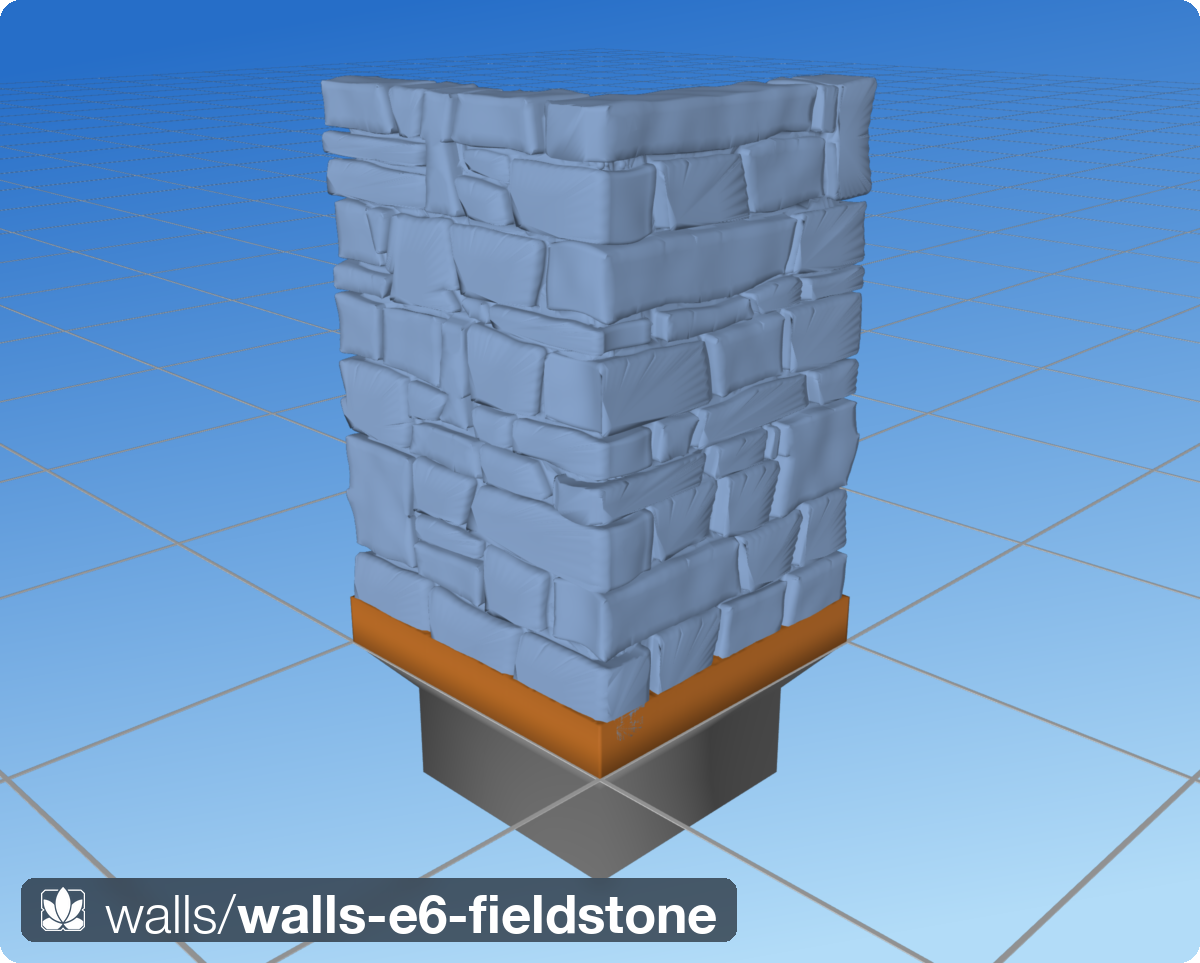
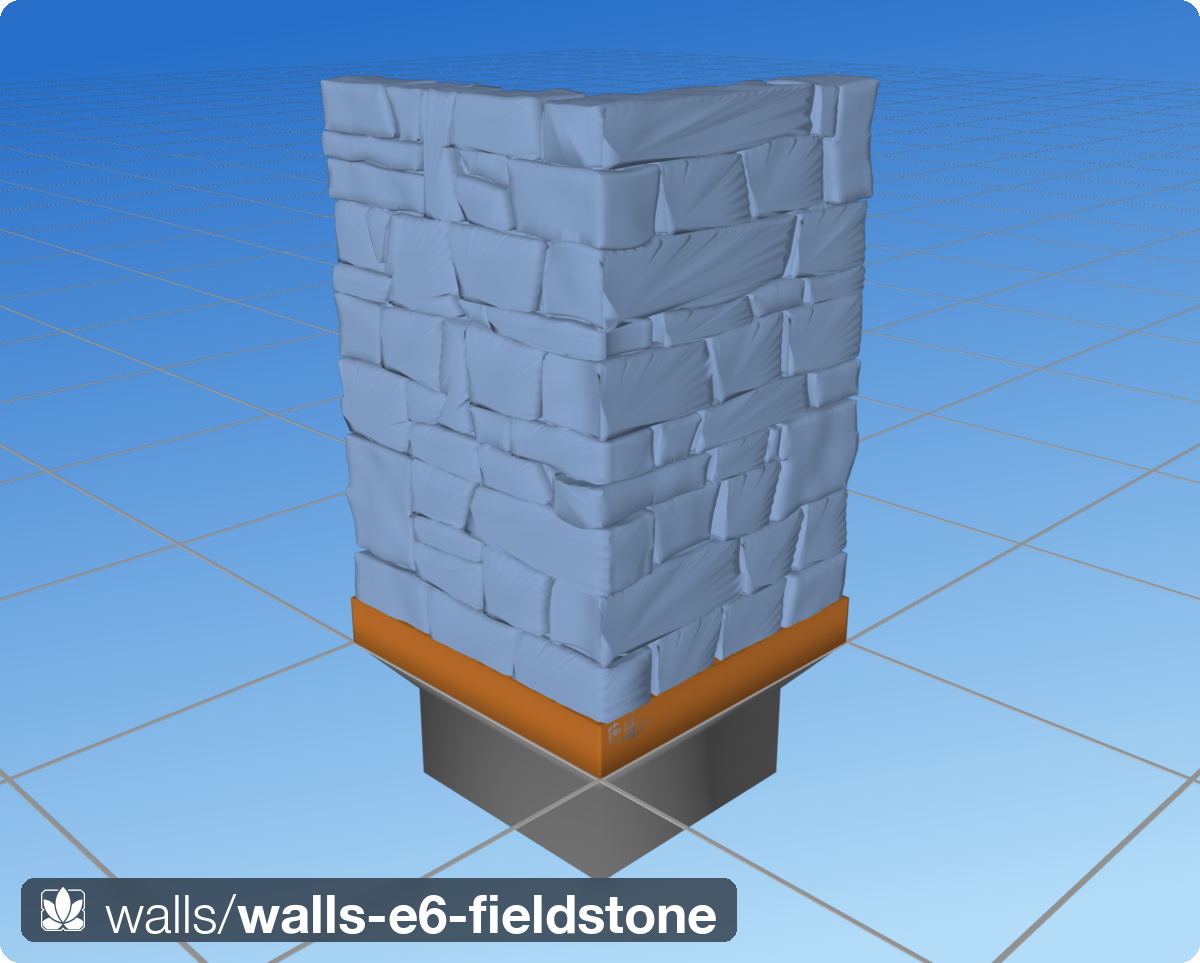
Walls: fieldstone E14 — hairline cracks (joint 0.1mm)
Shawn: crack width nonzero but ~0.1mm. joint_mm 0.5 -> 0.1: the
physical gap closes to 0.1mm at mid-depth while the visible crack
stays a dark V-groove (the belly taper opens each stone ~0.2-0.5mm
at the face plane). Relief can exceed the 0.05/side inset deep in
the crack, so bellies occasionally kiss and the union fuses the
contact — invisible from the face, and real stacked stones touch.

Red-mortar diag 0.0000 on all five views.

diff --git a/src/dharmatiles/walls/fieldstone.py b/src/dharmatiles/walls/fieldstone.py
@@ -179,7 +179,14 @@ class FieldstoneWall(CutStoneWall):
     def __init__(self, spine, *,
                  course_mm: tuple[float, float] = (2.8, 7.5),
                  bay_mm:    tuple[float, float] = (5.0, 16.0),
-                 joint_mm:  float = 0.5,
+                 joint_mm:  float = 0.1,   # physical crack gap (Shawn E14:
+                                           # nonzero but hairline).  The
+                                           # VISIBLE crack stays wider: the
+                                           # belly taper opens each stone
+                                           # ~0.2–0.5 mm at the face plane,
+                                           # so the face shows a dark
+                                           # V-groove that closes to this
+                                           # gap at mid-depth
                  reveal_mm: float = 2.8,
                  roundover_mm: float | None = 0.42,
                  relief_mm:    float | None = 0.10,

diff --git a/docs/design/walls-coursed-masonry.md b/docs/design/walls-coursed-masonry.md
@@ -187,7 +187,8 @@ unioned surface — the DB set-13 signature).
 | E10 | **No overlap anywhere** — the E9 overlap erased the dark outline around every stone, which IS the stacked read (reference photo). Stones exact-fit their jointed cells (joint 0.9 real gaps); overlap/bulge deleted; pins deleted (they straddle crossings → would fuse; hearting owns gap depth). Hearting became the sealed layer: footprint ≥2× pitch (hull corners recede ~25 % in their boxes — box-touching left 3.8 % measured holes), two y-layers staggered half-pitch in t AND z, setback 1.6 vs core reveal 2.8 (at setback 0.15 the rubble BURIED the coursing; at 2.0 vs reveal 2.2 oblique rays leaked past rubble edges). Red 0.00–0.06 % all five views. Instrument lesson: the flat-shaded diagnostic under-reads gap-depth contrast (no shadows) — over-tuning against it (wider joints, domed faces) mushed the real-light read; final judgment on the pyrender PNG + MeshLab | **Shawn: still not the reference** — the exact-fit rule makes every belly tangent to the SAME plane, so the wall face is geometrically flat and reads as texture embossed on a slab; "everything is up for grabs" |
 | E11 | Per-stone recession + gravity pockets + chinkers on the cell-hull chassis (never judged — superseded mid-round). Kept findings: (a) rubble hearting must honour the face setback in **t** too — segment END planes are visible faces (free ends, corner arris), and 0.3 mm-clipped rubble read as a broken pebble column down the arris; (b) no bay cut inside an owned corner cell (+2 mm margin) or a sliver quoin breaks the corner; (c) int key tags, not strings — `_place_block` hashes `cell.key` and str hashes vary per process | superseded by round-8 redirect |
 | E12 | **Approach reset (Shawn round-8: "distinct natural stones, fitting together with tight cracks … stones fitting into all the space; find 10 reference images and look carefully").**  Reference set collected → `docs/reference/walls/fieldstone/README.md`; the images agree: adjacent stones SHARE edge geometry (parallel edges, bulge-fits-notch), stone covers ≥90 % of the face, cracks are thin (~0.3–0.7 mm at scale) and uniform.  Independent per-cell hulls can never produce that complementarity — root cause of E6–E11.  Rebuilt **crack-network-first**: courses/bays give the crack topology; each bed line gets a shared wobble, each head joint a shared slant (both sides evaluate the same cached curve → complementary by construction); stone face outline = its bounded polygon inset joint/2 (shapely) with rounded corners; solid = outline lofted through the thickness with a gentle belly; per-stone tone from belly-apex drift + proudness, NO whole-stone rotation (it would open wedges).  Finishing: subdivide → broadband relief → Taubin; **no blur-remesh** (near-planar faces are marching cubes' terracing case — rendered as radial/banded artifacts) and **no centroid-fan caps** (skinny triangles streak under smooth shading) — caps are Delaunay over ring + interior grid; ring keeps shapely's corner vertices (`segmentize`, not uniform resample — under-sampled 0.42 mm corner arcs banded).  Red-mortar 0.00–0.03 % all five views; ~5 s build (no remesh) | **Shawn: "that's great. I love it"** + one change → E13 |
-| E13 | **Shorter stones** (Shawn: more horizontal cracks): courses 2.8–7.5 (was 3.4–9.6), h-split prob 0.28 at ≥5.5 mm (was 0.18 at ≥6.5), bed wobble amp per sine 0.14–0.32 (was 0.18–0.40 — the thinnest split stones drop to ~2.5 mm and two independent beds must never cross).  Throughstone merges kept at 0.20 for size contrast.  Red 0.00–0.02 % | pending Shawn |
+| E13 | **Shorter stones** (Shawn: more horizontal cracks): courses 2.8–7.5 (was 3.4–9.6), h-split prob 0.28 at ≥5.5 mm (was 0.18 at ≥6.5), bed wobble amp per sine 0.14–0.32 (was 0.18–0.40 — the thinnest split stones drop to ~2.5 mm and two independent beds must never cross).  Throughstone merges kept at 0.20 for size contrast.  Red 0.00–0.02 % | Shawn: ✓ + next tweak |
+| E14 | **Hairline cracks** (Shawn: nonzero but ~0.1 mm): `joint_mm` 0.5 → 0.1.  The physical gap closes to 0.1 mm at mid-depth; the VISIBLE crack stays a dark V-groove because the belly taper opens each stone ~0.2–0.5 mm at the face plane.  Relief (±0.10) can exceed the 0.05/side inset at mid-depth → occasional invisible belly kisses, which the union fuses (real stones touch; prints fine).  Red 0.0000 all five views | pending Shawn |
 
 Implementation notes: cut-stone blocks finish through `_blur_remesh`
 (σ 0.7) — `subdivide_to_size` leaves T-junctions that break the
